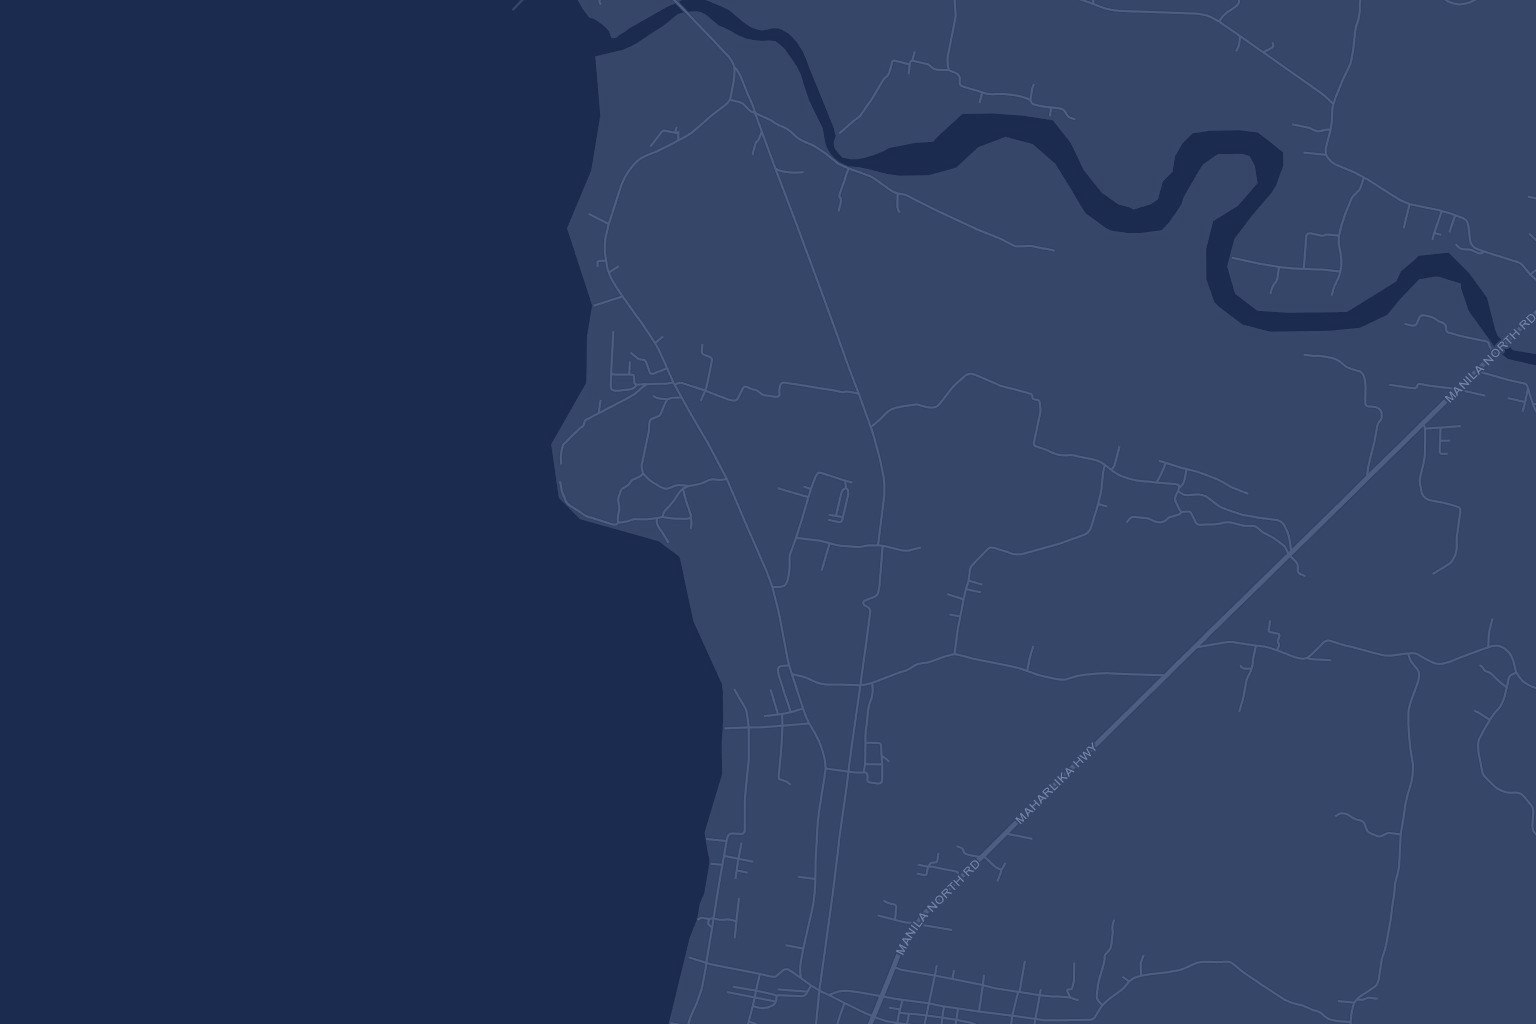
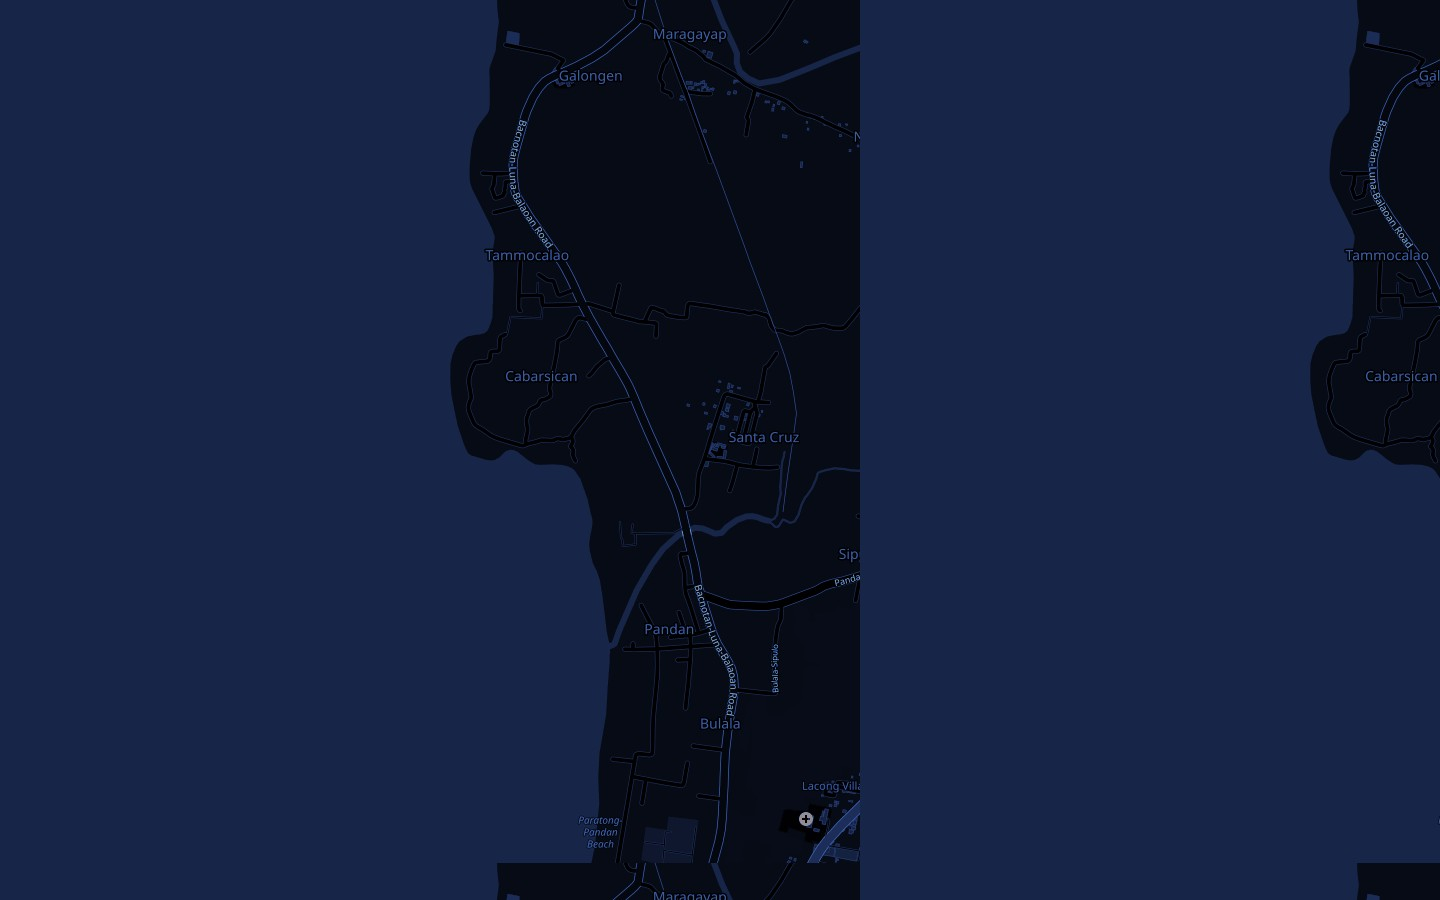
Match Capstone Finale hero exactly with captured OSM map.
Use the Vercel hero map capture as a static backdrop so Hostinger matches even when OSM tiles are blocked.

diff --git a/assets/govly2.css b/assets/govly2.css
@@ -7,16 +7,25 @@
 }
 
 body { background: #f8f9fa; color: #333; }
-.nav-spacer { height: 72px; }
+/* Capstone uses fixed 80px nav + hero margin-top:80px (no extra spacer gap) */
+.nav-spacer { height: 80px; }
+.hero-section { margin-top: 0 !important; }
 .site-nav {
   position: fixed; top: 0; left: 0; right: 0; z-index: 50;
   background: linear-gradient(135deg, #0038A8 0%, #002570 50%, #001a47 100%);
 }
+.site-nav-bar { height: 80px; }
 .nav-link-custom {
   background: transparent; border: 0; color: #fff !important;
   font-size: .9rem; font-weight: 500; text-decoration: none; cursor: pointer;
 }
 .nav-link-custom:hover { color: #ffc107 !important; }
+#themeToggle {
+  width: 38px; height: 38px; padding: 0;
+  display: inline-flex; align-items: center; justify-content: center;
+  border-radius: 10px; border: 1px solid rgba(255,255,255,.45);
+  background: rgba(255,255,255,.08); color: #fff; line-height: 1;
+}
 
 .flash {
   position: fixed; top: 84px; left: 50%; transform: translateX(-50%);
@@ -35,7 +44,7 @@ body { background: #f8f9fa; color: #333; }
   font-size: 1.1rem; color: #666; max-width: 600px;
   margin: 0 auto; line-height: 1.6;
 }
-/* Hero: static navy map always visible; Leaflet tiles enhance when available */
+/* Hero matches Capstone Finale: static OSM capture + live Leaflet OSM */
 .hero-section .hero-media {
   position: absolute;
   inset: 0;
@@ -44,6 +53,7 @@ body { background: #f8f9fa; color: #333; }
   z-index: 0;
   background: #0038a8;
   overflow: hidden;
+  pointer-events: none;
 }
 .hero-section .hero-map-static {
   position: absolute;
@@ -51,7 +61,7 @@ body { background: #f8f9fa; color: #333; }
   width: 100%;
   height: 100%;
   object-fit: cover;
-  object-position: center;
+  object-position: center center;
   z-index: 0;
   pointer-events: none;
   display: block;
@@ -65,20 +75,19 @@ body { background: #f8f9fa; color: #333; }
   pointer-events: none;
   background: transparent !important;
 }
+/* Exact Capstone tile filter from finale.css */
 .hero-section .hero-map .leaflet-tile-pane {
-  /* Esri dark gray → Capstone navy blue wash */
-  filter: sepia(0.35) hue-rotate(185deg) saturate(2.8) brightness(0.85);
-  opacity: 0.9;
+  filter: grayscale(1) invert(1) sepia(1) hue-rotate(185deg) saturate(4.2) brightness(0.58);
 }
-.hero-section .hero-overlay {
-  z-index: 2;
-  background:
-    radial-gradient(ellipse at 40% 35%, rgba(0, 45, 150, 0.08) 0%, rgba(0, 32, 120, 0.22) 70%),
-    linear-gradient(180deg, rgba(0, 40, 140, 0.12) 0%, rgba(0, 28, 110, 0.28) 100%) !important;
-}
-.hero-section .hero-inner { z-index: 3; }
+.hero-section .hero-overlay { z-index: 2; }
+.hero-section .hero-inner { z-index: 3; position: relative; }
 .hero-section .hero-map-credit { z-index: 4; }
-.hero-btn { text-decoration: none; display: inline-flex; align-items: center; justify-content: center; }
+.hero-btn {
+  text-decoration: none;
+  display: inline-flex;
+  align-items: center;
+  justify-content: center;
+}
 .pill {
   display: inline-block; padding: 8px 16px; border-radius: 20px;
   font-size: .85rem; font-weight: 600; margin-bottom: 15px;

diff --git a/assets/govly2.js b/assets/govly2.js
@@ -14,33 +14,8 @@
     btn.textContent = root.getAttribute('data-theme') === 'dark' ? '☀' : '☾';
   });
 
-  // Capstone Finale hero: full-bleed Leaflet map (navy filter via finale.css)
-  const heroEl = document.getElementById('heroMap');
-  if (heroEl && typeof L !== 'undefined') {
-    const STA_CRUZ = [16.74073, 120.34599];
-    const map = L.map(heroEl, {
-      center: STA_CRUZ,
-      zoom: 15,
-      zoomControl: false,
-      attributionControl: false,
-      dragging: false,
-      scrollWheelZoom: false,
-      doubleClickZoom: false,
-      boxZoom: false,
-      keyboard: false,
-      touchZoom: false,
-    });
-    // Esri dark gray (reliable; OSM.org tiles often 403). Blue wash via CSS.
-    L.tileLayer('https://server.arcgisonline.com/ArcGIS/rest/services/Canvas/World_Dark_Gray_Base/MapServer/tile/{z}/{y}/{x}', {
-      maxZoom: 16,
-    }).addTo(map);
-    const resize = () => map.invalidateSize();
-    requestAnimationFrame(resize);
-    window.addEventListener('resize', resize);
-    if (typeof ResizeObserver !== 'undefined') {
-      new ResizeObserver(resize).observe(heroEl);
-    }
-  }
+  // Hero map uses the exact Capstone Finale OSM capture (assets/hero-map-navy.jpg).
+  // Live OSM tiles are skipped here — tile.openstreetmap.org often 403s and would cover the match.
 
   // Open-Meteo weather for Bacnotan (same as Capstone Finale)
   const wxCard = document.getElementById('weatherCard');

diff --git a/app/views/_nav.php b/app/views/_nav.php
@@ -1,12 +1,12 @@
 <?php $u = current_user(); ?>
-<nav class="site-nav shadow-lg" id="topNav">
+<nav class="site-nav gradient-bg hero-pattern shadow-lg" id="topNav">
   <div class="container-xl px-3">
     <div class="site-nav-bar d-flex align-items-center justify-content-between">
       <a class="d-flex align-items-center gap-3 text-decoration-none" href="<?= h(base_url()) ?>">
-        <img src="<?= h(base_url('assets/sta-cruz.jpg')) ?>" alt="Barangay Sta. Cruz"
-          style="width:48px;height:48px;object-fit:cover;border-radius:.5rem;box-shadow:0 4px 6px rgba(0,0,0,.1)" />
+        <img src="<?= h(base_url('assets/sta-cruz.jpg')) ?>" alt="Barangay Sta.Cruz Logo"
+          style="width:48px;height:48px;object-fit:cover;border-radius:.5rem;flex-shrink:0;box-shadow:0 4px 6px rgba(0,0,0,.1)" />
         <div class="site-brand">
-          <h1 class="site-brand-title fw-bold mb-0" style="line-height:1.2;color:#fff;font-size:1.15rem">Barangay Sta.Cruz</h1>
+          <h1 class="site-brand-title fw-bold mb-0" style="line-height:1.2;color:#fff">Barangay Sta.Cruz</h1>
           <p class="mb-0" style="font-size:.7rem;color:#fff">Bacnotan City</p>
         </div>
       </a>
@@ -21,15 +21,16 @@
       </div>
 
       <div class="d-flex align-items-center gap-2">
-        <button type="button" class="btn btn-sm btn-outline-light rounded-3" id="themeToggle" title="Night mode">☾</button>
+        <button type="button" id="themeToggle" title="Night mode" aria-label="Night mode">☾</button>
         <div class="dropdown">
-          <button class="btn btn-warning fw-bold dropdown-toggle rounded-3" type="button" data-bs-toggle="dropdown">
-            <?= $u ? h($u['first_name']) : 'Account' ?>
+          <button class="btn btn-warning fw-bold dropdown-toggle rounded-3 d-flex align-items-center gap-2 shadow-sm" type="button" data-bs-toggle="dropdown" style="font-size:.875rem">
+            <svg xmlns="http://www.w3.org/2000/svg" width="15" height="15" viewBox="0 0 24 24" fill="none" stroke="currentColor" stroke-width="2" stroke-linecap="round" stroke-linejoin="round" aria-hidden="true"><path d="M19 21v-2a4 4 0 0 0-4-4H9a4 4 0 0 0-4 4v2"/><circle cx="12" cy="7" r="4"/></svg>
+            <span><?= $u ? h($u['first_name']) : 'Account' ?></span>
           </button>
-          <ul class="dropdown-menu dropdown-menu-end shadow">
+          <ul class="dropdown-menu dropdown-menu-end shadow rounded-3">
             <?php if (!$u): ?>
-              <li><a class="dropdown-item" href="<?= h(base_url('login')) ?>">Login</a></li>
-              <li><a class="dropdown-item" href="<?= h(base_url('register')) ?>">Register</a></li>
+              <li><a class="dropdown-item fw-semibold" href="<?= h(base_url('login')) ?>">Login</a></li>
+              <li><a class="dropdown-item fw-semibold" href="<?= h(base_url('register')) ?>">Register</a></li>
             <?php else: ?>
               <li><h6 class="dropdown-header"><?= h(trim(($u['first_name'] ?? '') . ' ' . ($u['last_name'] ?? ''))) ?> · <?= h($u['role']) ?></h6></li>
               <?php if (is_admin_user($u)): ?>
@@ -38,20 +39,21 @@
                 <li><a class="dropdown-item" href="<?= h(base_url('dashboard')) ?>">My requests</a></li>
               <?php endif; ?>
               <li><hr class="dropdown-divider"></li>
-              <li><a class="dropdown-item" href="<?= h(base_url('logout')) ?>">Logout</a></li>
+              <li><a class="dropdown-item text-danger" href="<?= h(base_url('logout')) ?>">Logout</a></li>
             <?php endif; ?>
           </ul>
         </div>
-        <button class="btn btn-outline-light d-md-none" type="button" data-bs-toggle="collapse" data-bs-target="#mobileNav">☰</button>
+        <button class="btn text-white d-md-none p-2 rounded-2" type="button" data-bs-toggle="collapse" data-bs-target="#mobileNav" aria-label="Menu">☰</button>
       </div>
     </div>
     <div class="collapse d-md-none pb-3" id="mobileNav">
-      <div class="d-flex flex-column gap-2">
-        <a class="nav-link-custom" href="<?= h(base_url('#services')) ?>">Services</a>
-        <a class="nav-link-custom" href="<?= h(base_url('#officials')) ?>">Officials</a>
-        <a class="nav-link-custom" href="<?= h(base_url('#announcements')) ?>">News</a>
-        <a class="nav-link-custom" href="<?= h(base_url('emergency')) ?>">Emergency</a>
-        <a class="nav-link-custom" href="<?= h(base_url('#contact')) ?>">Contact</a>
+      <div class="d-flex flex-column gap-1 px-1">
+        <a class="nav-link-custom py-2" href="<?= h(base_url('#home')) ?>">Home</a>
+        <a class="nav-link-custom py-2" href="<?= h(base_url('#services')) ?>">Services</a>
+        <a class="nav-link-custom py-2" href="<?= h(base_url('#officials')) ?>">Officials</a>
+        <a class="nav-link-custom py-2" href="<?= h(base_url('#announcements')) ?>">News</a>
+        <a class="nav-link-custom py-2" href="<?= h(base_url('emergency')) ?>">Emergency</a>
+        <a class="nav-link-custom py-2" href="<?= h(base_url('#contact')) ?>">Contact</a>
       </div>
     </div>
   </div>

diff --git a/app/views/home.php b/app/views/home.php
@@ -1,5 +1,5 @@
 <?php
-$title = 'GovLy 2.0 · Barangay Sta.Cruz Portal';
+$title = 'Barangay Sta.Cruz Portal';
 $site = site();
 $officials = [];
 $anns = [];
@@ -30,11 +30,10 @@ require __DIR__ . '/_nav.php';
 <main>
   <section id="home" class="hero-section">
     <div class="hero-media" aria-hidden="true">
-      <img class="hero-map-static" src="<?= h(base_url('assets/hero-map-navy.jpg')) ?>?v=4" alt="" width="1536" height="1024" decoding="async" />
-      <div id="heroMap" class="hero-map" role="img" aria-label="Map of Barangay Sta. Cruz, Bacnotan, La Union"></div>
+      <img class="hero-map-static" src="<?= h(base_url('assets/hero-map-navy.jpg')) ?>?v=5" alt="" width="1440" height="900" decoding="async" fetchpriority="high" />
     </div>
     <div class="hero-overlay"></div>
-    <p class="hero-map-credit">Barangay Sta. Cruz, Bacnotan, La Union · © Esri · © OpenStreetMap</p>
+    <p class="hero-map-credit">Barangay Sta. Cruz, Bacnotan, La Union · © OpenStreetMap</p>
     <div class="hero-inner container-xl px-3">
       <div class="hero-copy">
         <h1 class="hero-title">Barangay Sta. Cruz</h1>
@@ -323,6 +322,5 @@ require __DIR__ . '/_nav.php';
   </div>
 </footer>
 <script src="https://cdn.jsdelivr.net/npm/bootstrap@5.3.3/dist/js/bootstrap.bundle.min.js"></script>
-<script src="<?= h(base_url('assets/leaflet/leaflet.js')) ?>?v=4"></script>
-<script src="<?= h(base_url('assets/govly2.js')) ?>?v=4"></script>
+<script src="<?= h(base_url('assets/govly2.js')) ?>?v=5"></script>
 </body></html>

diff --git a/app/views/_head.php b/app/views/_head.php
@@ -10,9 +10,8 @@ $title = $title ?? ($GLOBALS['CONFIG']['app_name'] ?? 'GovLy 2.0');
   <title><?= h($title) ?></title>
   <link rel="icon" href="<?= h(base_url('assets/sta-cruz.jpg')) ?>" />
   <link href="https://cdn.jsdelivr.net/npm/bootstrap@5.3.3/dist/css/bootstrap.min.css" rel="stylesheet" />
-  <link rel="stylesheet" href="<?= h(base_url('assets/leaflet/leaflet.css')) ?>?v=4" />
-  <link rel="stylesheet" href="<?= h(base_url('assets/finale.css')) ?>?v=4" />
-  <link rel="stylesheet" href="<?= h(base_url('assets/govly2.css')) ?>?v=4" />
+  <link rel="stylesheet" href="<?= h(base_url('assets/finale.css')) ?>?v=5" />
+  <link rel="stylesheet" href="<?= h(base_url('assets/govly2.css')) ?>?v=5" />
 </head>
 <body>
 <?php if ($msg = flash('success')): ?><div class="flash ok"><?= h($msg) ?></div><?php endif; ?>
